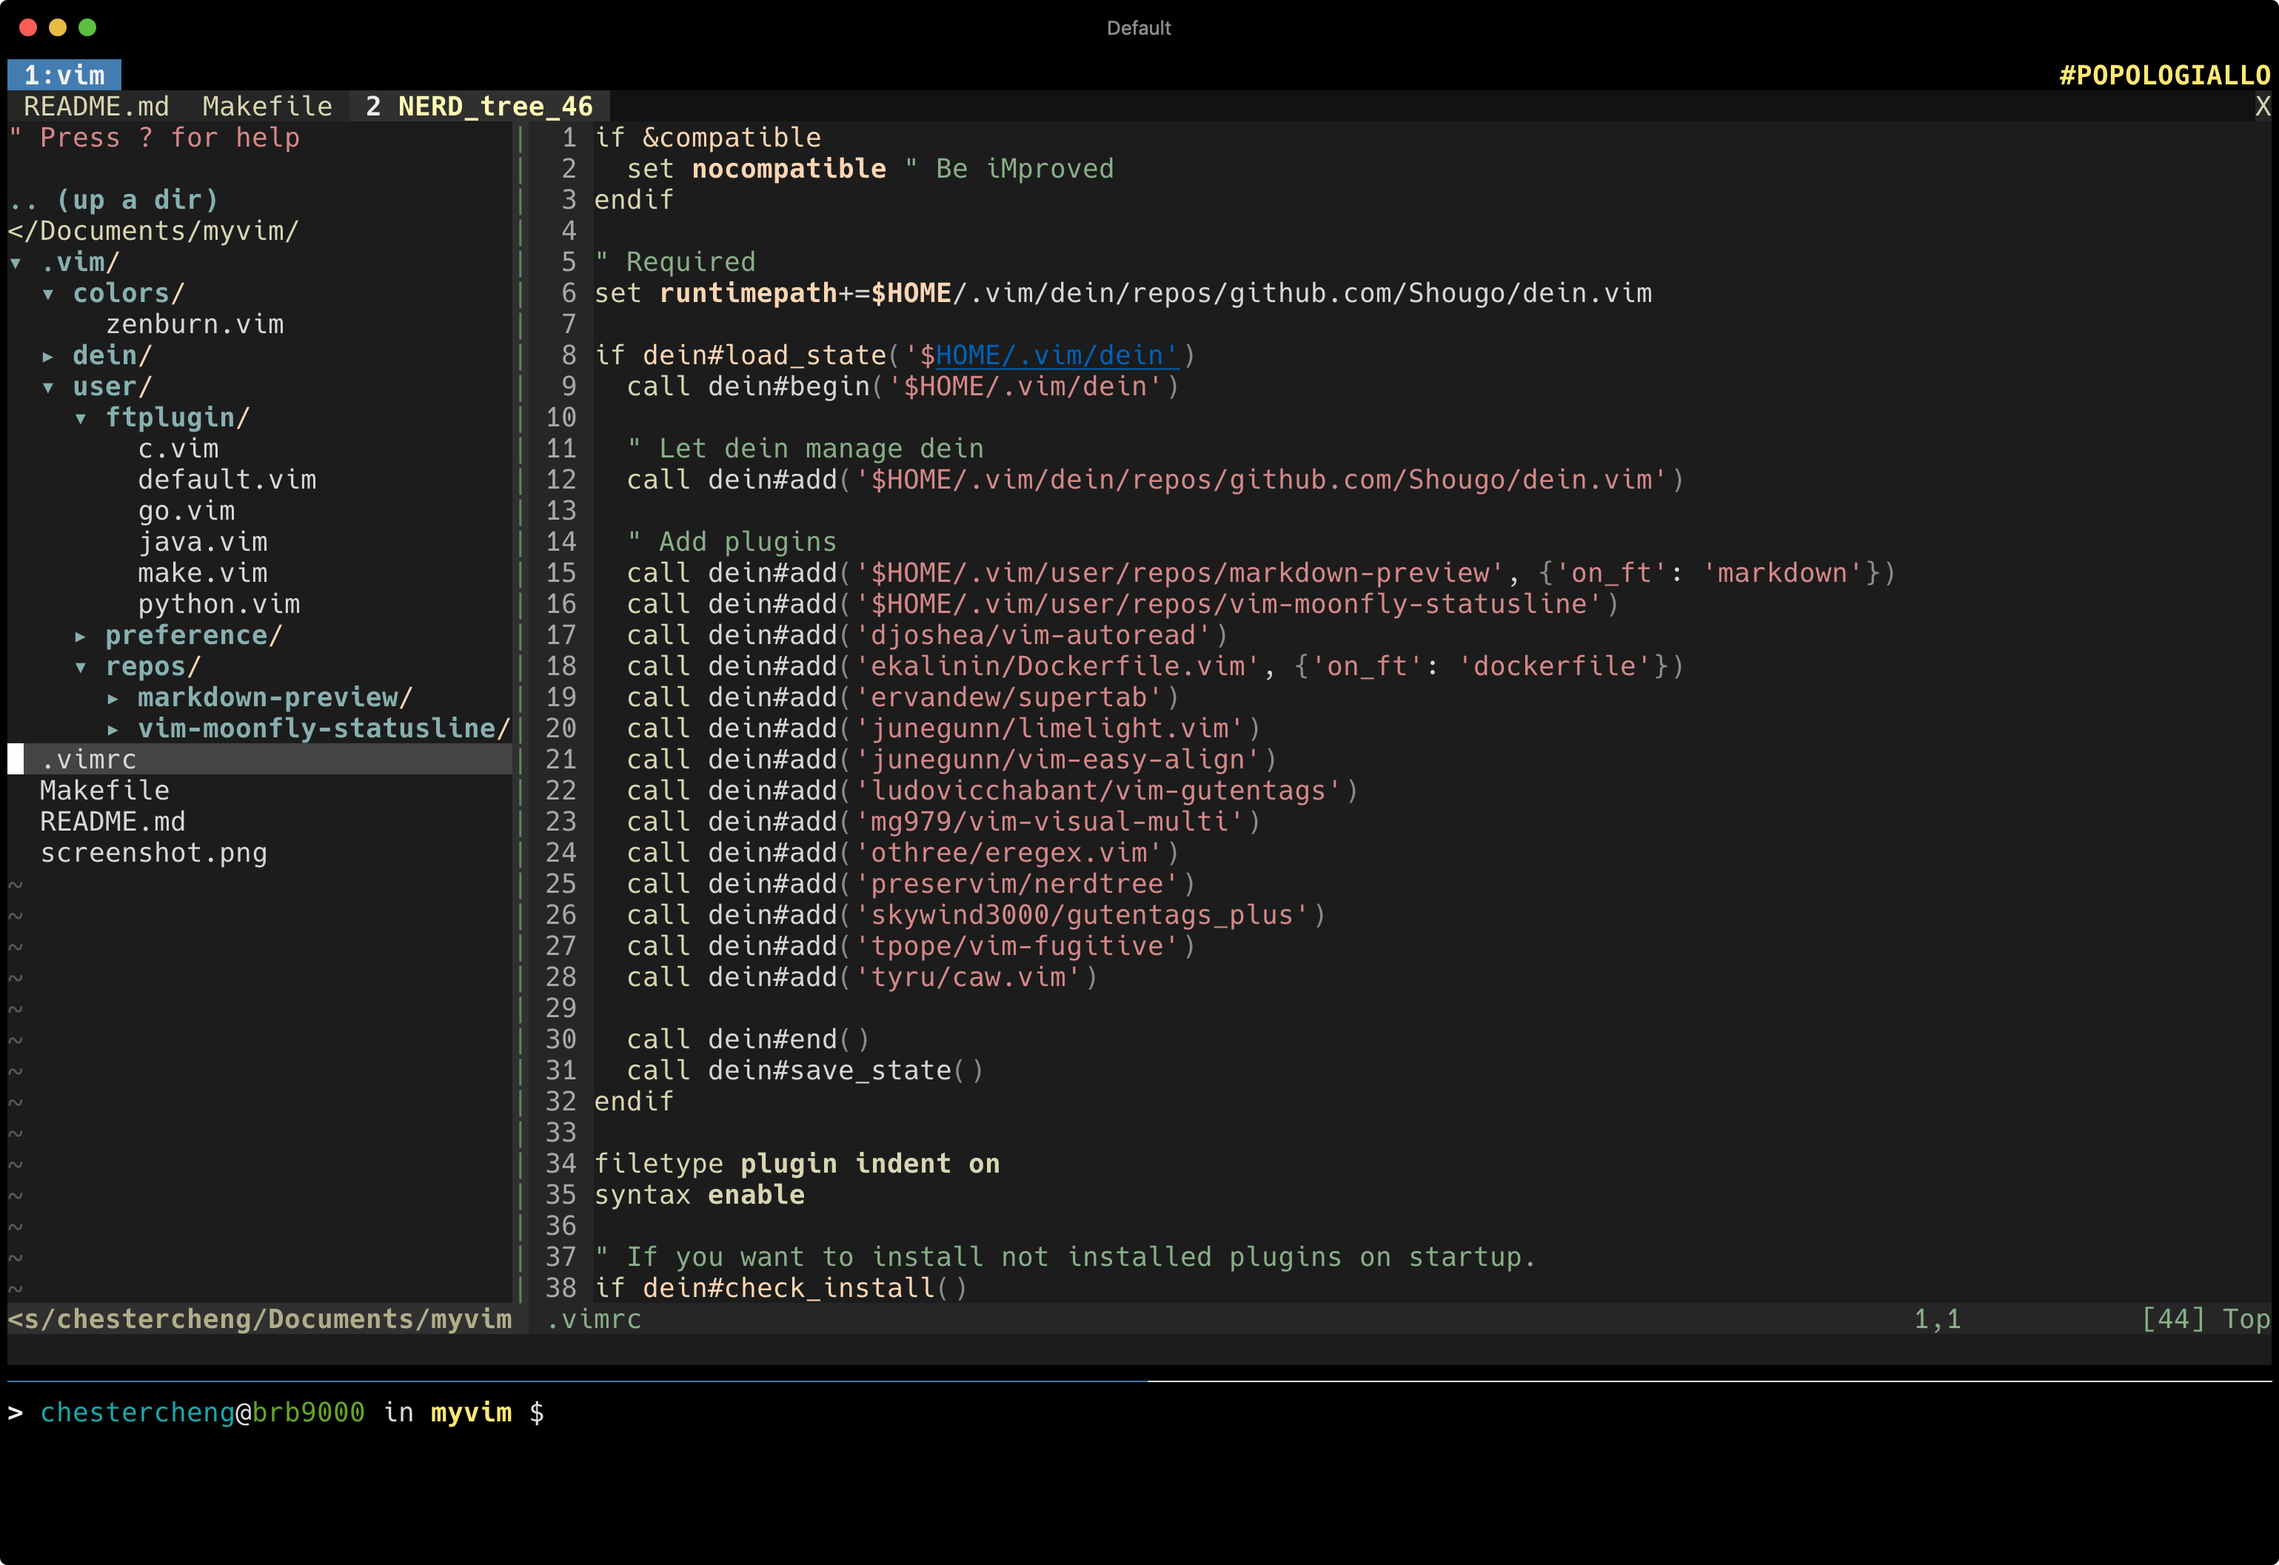
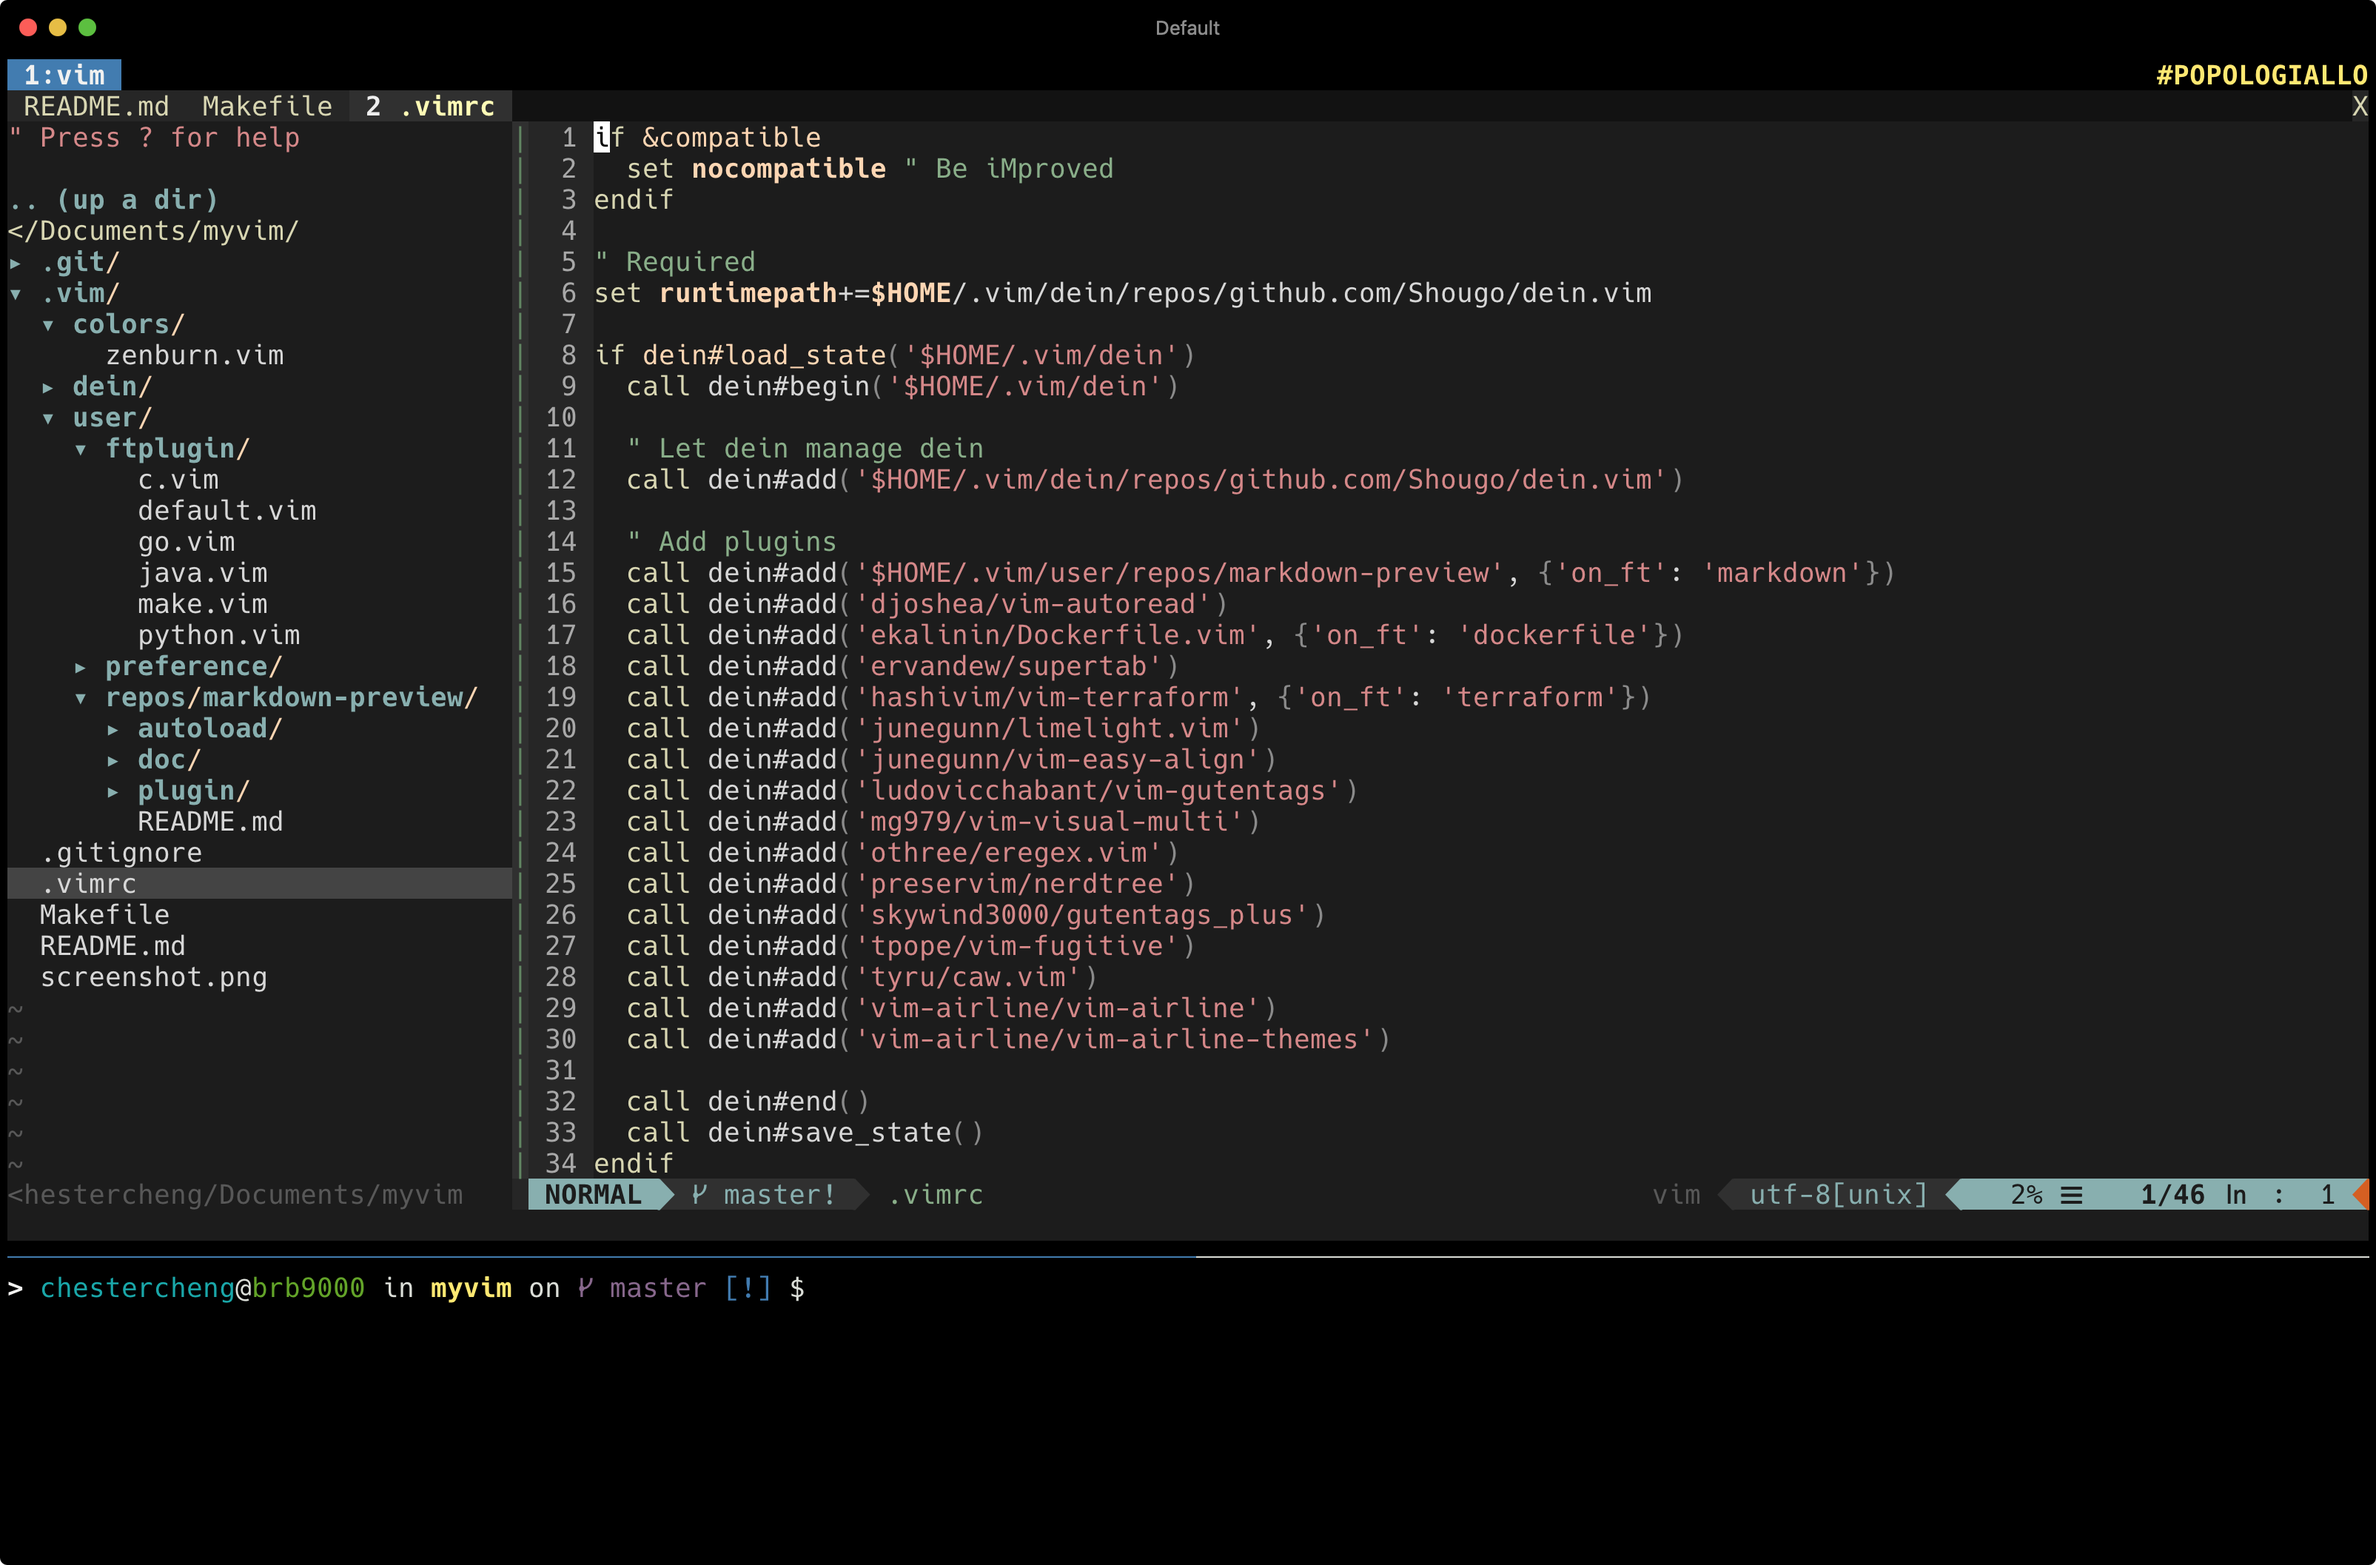
add vim-airline and vim-terraform

Changed region(s): [[0.0, 0.0312, 0.9981, 0.9054], [0.9045, 0.0312, 0.9981, 0.0624]]

diff --git a/README.md b/README.md
@@ -40,8 +40,7 @@ cd myvim && make all
 │       │   ├── general.vim
 │       │   └── ...
 │       └── repos
-│           ├── markdown-preview
-│           └── vim-moonfly-statusline
+│           └── markdown-preview
 ├── .vimrc
 ├── Makefile
 └── README.md
@@ -75,6 +74,8 @@ Usage:
 
 * [ervandew/supertab](https://github.com/ervandew/supertab) - Perform all your vim insert mode completions with Tab
 
+* [hashivim/vim-terraform](https://github.com/hashivim/vim-terraform) - basic vim/terraform integration
+
 * [junegunn/limelight.vim](https://github.com/junegunn/limelight.vim) - All the world's indeed a stage and we are merely players
 
 * [junegunn/vim-easy-align](https://github.com/junegunn/vim-easy-align) - A Vim alignment plugin
@@ -92,3 +93,7 @@ Usage:
 * [tpope/vim-fugitive](https://github.com/tpope/vim-fugitive) - fugitive.vim: A Git wrapper so awesome, it should be illegal
 
 * [tyru/caw.vim](https://github.com/tyru/caw.vim) - Vim comment plugin: supported operator/non-operator mappings, repeatable by dot-command, 300+ filetypes
+
+* [vim-airline/vim-airline](https://github.com/vim-airline/vim-airline) - lean & mean status/tabline for vim that's light as air
+
+* [vim-airline/vim-airline-themes](https://github.com/vim-airline/vim-airline-themes) - A collection of themes for vim-airline
